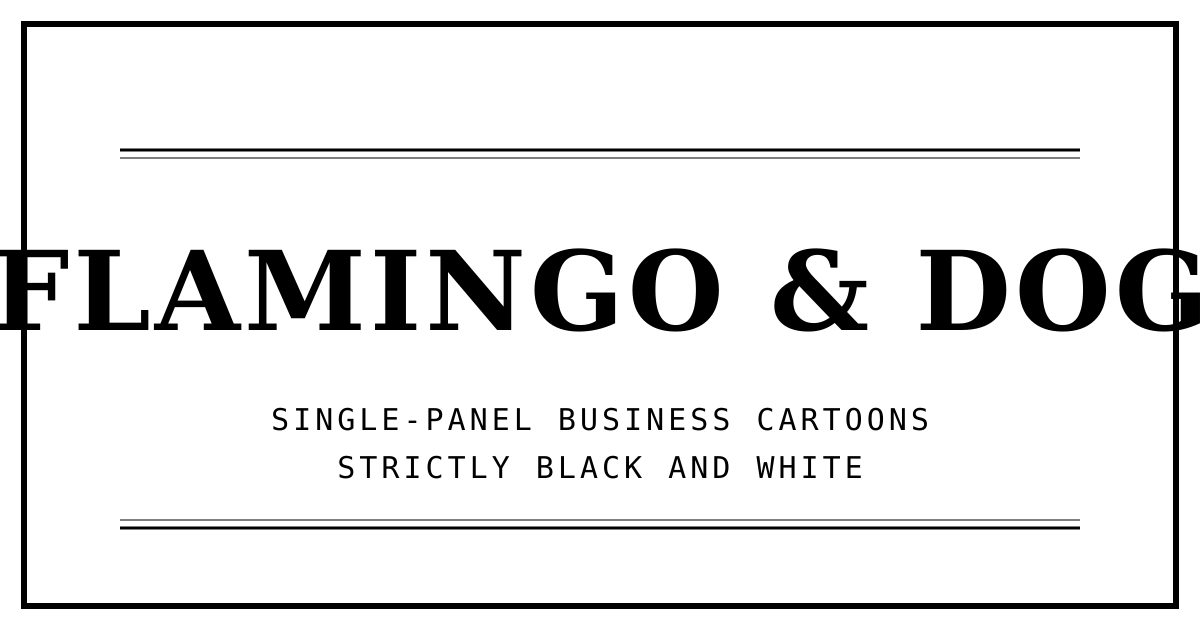
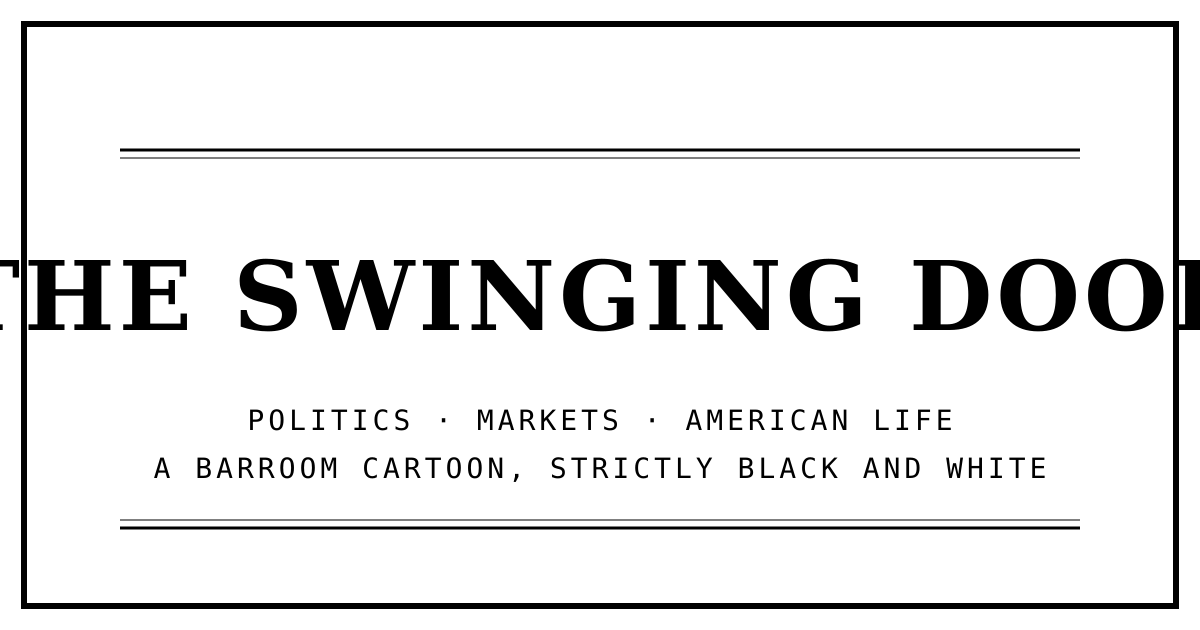
feat: The Swinging Door — site-wide rename + cast integration
Placeholder brand replaced with the founder's series title across all
variants, chooser, permalink, metadata, OG card, and favicon. About
and characters pages rewritten around the bar and the real cast
(Drew, Mango, Abby). All names remain BRAND-marked for future changes.

Claude-Session: https://claude.ai/code/session_01GEydYCHEsDrXfcEi76zStT

diff --git a/site/app/(variants)/a/about/page.tsx b/site/app/(variants)/a/about/page.tsx
@@ -6,7 +6,8 @@ import type { Metadata } from "next";
 
 export const metadata: Metadata = {
   title: "About the Paper",
-  description: "A very small newspaper about money, published daily from the desk of a retired financial advisor.",
+  description:
+    "A very small newspaper reporting from one bar stool: politics, markets, and American life, in black-and-white ink wash.",
 };
 
 export default function AboutPage() {
@@ -20,17 +21,20 @@ export default function AboutPage() {
       <article className="va-about">
         <p className="va-about-body">
           {/* BRAND: replace when final */}
-          Flamingo &amp; Dog is a very small newspaper with a very narrow beat: money, and the things
-          it does to otherwise sensible people. Each edition is one panel, drawn in black and white,
-          concerning markets, meetings, retirement, and clients who would like both perfect safety
-          and forty percent a year. The cast is a flamingo and a dog. One of them is usually right,
-          and it is not always the same one.
+          The Swinging Door is a very small newspaper with one bar on its beat. Each edition is one
+          panel, drawn in black-and-white ink wash, filed from inside the Swinging Door — a classic
+          American bar where the TV runs the news, the chalkboard runs the specials, and the
+          regulars run commentary on politics, markets, and American life. The cast: Drew, a
+          flamingo with a bowtie and a martini; Mango, a golden retriever with a flag on his lapel
+          and a story already underway; and Abby behind the bar, who appears rarely and is right
+          constantly.
         </p>
         <p className="va-about-body">
           The founder spent the better part of four decades as a financial advisor, which is long
-          enough to notice that the funniest thing about money is everything. He has since retired —
-          in the sense that he now draws the meetings instead of billing for them. The paper goes out
-          from his desk, one panel at a time. Corrections are printed rarely, and regretted always.
+          enough to notice that the funniest thing about money is everything, and that most of it
+          is on the news by six. He has since retired — in the sense that he now draws the
+          conversation instead of billing for it. The paper goes out from his desk, one panel at a
+          time. Corrections are printed rarely, and regretted always.
         </p>
         <p className="va-thirty" aria-hidden="true">
           — 30 —

diff --git a/site/app/(variants)/c/about/page.tsx b/site/app/(variants)/c/about/page.tsx
@@ -9,7 +9,7 @@ export const metadata: Metadata = {
   // BRAND: replace when final
   title: "About",
   description:
-    "About Flamingo & Dog — single-panel business cartoons from the desk of a retired financial advisor.",
+    "About The Swinging Door — single-panel barroom cartoons about politics, markets, and American life.",
 };
 
 export default function AboutPage() {
@@ -27,16 +27,17 @@ export default function AboutPage() {
           <span className="vc-tape vc-tape-right" aria-hidden="true" />
           <p className="vc-about-copy">
             {/* BRAND: replace when final */}
-            Flamingo &amp; Dog publishes one cartoon at a time: a single panel, black ink on white
-            paper, about the ordinary comedy of money. Markets, meetings, quarterly forecasts, the
-            client who is certain that this time is different — the same material the financial
-            pages print daily, taken exactly as seriously as it deserves.
+            The Swinging Door runs one strip at a time: a single panel, black ink wash on white
+            paper, from a corner bar where the news plays on a small TV and receives exactly the
+            respect it has earned. Drew the flamingo brings the skepticism, Mango the golden
+            retriever brings the stories, and Abby the bartender brings the last word — sparingly,
+            which is why it works.
           </p>
           <p className="vc-about-copy">
             The founder spent four decades as a financial advisor, which is to say four decades of
             explaining, patiently and for a modest fee, that nobody knows anything for certain. On
-            retiring he concluded that the funniest thing about money is everything, and engaged a
-            flamingo and a dog to put that finding in print. They have yet to disagree with him.
+            retiring he concluded that the funniest thing about money is everything, and opened a
+            bar on paper to prove it. The regulars have yet to disagree with him.
           </p>
           <p className="vc-about-sign">New strips run regularly. Tell a friend who owns bonds.</p>
         </article>

diff --git a/site/app/(variants)/c/characters/page.tsx b/site/app/(variants)/c/characters/page.tsx
@@ -11,16 +11,17 @@ import { getCharacters } from "@/lib/canon";
 export const metadata: Metadata = {
   title: "The Cast",
   description:
-    "The two professionals of the strip — one flamingo, one dog — with model sheets and bios as the canon gets written.",
+    "The regulars of the Swinging Door — Drew, Mango, and Abby — with model sheets and bios as the canon gets written.",
 };
 
-const BILLING = ["Top billing", "Second billing"];
+const BILLING = ["Top billing", "Top billing", "Behind the bar"];
 
 // Placeholder bios in brand voice, used while canon bios are null.
 const PLACEHOLDER_BIOS: Record<string, string> = {
   flamingo:
-    "The tall one. Sees opportunity everywhere, reads the prospectus nowhere, and has never once doubted himself in print. His official biography is still being written with the founder.",
-  dog: "The sensible one. Keeps the books balanced, the receipts filed, and one skeptical eyebrow permanently raised at his partner’s latest sure thing. His official biography is still being written with the founder.",
+    "The tall one. Bowtie, martini, three olives, and a raised eyebrow for every institution on the TV. His official biography is still being written with the founder.",
+  dog: "The earnest one. Flag on the lapel, old fashioned in paw, and a story about his grandfather queued for every occasion. His official biography is still being written with the founder.",
+  abby: "The bartender. Wise, brief, and right. She appears rarely, which is how she likes it. Her official biography is still being written with the founder.",
 };
 
 export default function CharactersPage() {
@@ -32,7 +33,7 @@ export default function CharactersPage() {
         <h1 className="vc-sechead">
           <span>The Cast</span>
         </h1>
-        <p className="vc-page-intro">Two professionals. One of them is a flamingo.</p>
+        <p className="vc-page-intro">The regulars. Two on stools, one behind the bar.</p>
       </header>
 
       <ul className="vc-cast-row">

diff --git a/site/app/(variants)/b/characters/page.tsx b/site/app/(variants)/b/characters/page.tsx
@@ -7,7 +7,7 @@ import { getCharacters } from "@/lib/canon";
 
 export const metadata: Metadata = {
   title: "Dramatis Personae",
-  description: "The cast of the panel — a flamingo and a dog — in order of billing.",
+  description: "The cast of the panel — Drew, Mango, and Abby — in order of billing.",
 };
 
 const ORDINALS = ["First", "Second", "Third", "Fourth", "Fifth"];
@@ -17,8 +17,9 @@ const ORDINALS = ["First", "Second", "Third", "Fourth", "Fifth"];
 // members get a tailored line; anyone added later gets the general notice.
 const PLACEHOLDER_BIOS: Record<string, string> = {
   flamingo:
-    "The flamingo's formal biography is still being taken down at the founder's desk, where it is reportedly running long. Until the wording is settled, the record shows one flamingo, strictly black and white, with a standing interest in other people's money.",
-  dog: "The dog's formal biography awaits the founder's sign-off, and the dog is in no hurry. For now the file holds a single note: good with clients, better at lunch.",
+    "Drew's formal biography is still being taken down at the founder's desk, where it is reportedly running long. Until the wording is settled, the record shows one flamingo, one bowtie, one martini with three olives, and a standing interest in the absurdity of institutions.",
+  dog: "Mango's formal biography awaits the founder's sign-off, and Mango is in no hurry — he is mid-story. For now the file holds a single note: golden retriever, flag on the lapel, old fashioned in hand, believes in the country and reads the fine print anyway.",
+  abby: "Abby's formal biography is short by design: westie, bartender, wise. She appears rarely, pours precisely, and has already heard the end of whatever argument is currently underway.",
 };
 
 function placeholderBio(id: string): string {

diff --git a/site/app/(variants)/b/about/page.tsx b/site/app/(variants)/b/about/page.tsx
@@ -20,16 +20,17 @@ export default function AboutPage() {
       <div className="vb-prose">
         <p>
           {/* BRAND: replace when final */}
-          Flamingo &amp; Dog publishes single-panel cartoons about the business of money —
-          markets, meetings, fees, and the long unhurried comedy of retirement planning. Every
-          panel is drawn in black and white, which is how the truth about money generally
-          arrives. One flamingo, one dog, no color, no exceptions.
+          The Swinging Door publishes single-panel cartoons from inside a bar of the same name —
+          politics, markets, media, and American life, discussed over drinks by Drew, a flamingo
+          of elegant skepticism, and Mango, a golden retriever of durable belief, with occasional
+          rulings from Abby behind the bar. Every panel is drawn in black-and-white ink wash,
+          which is how the truth generally arrives. No color, no exceptions.
         </p>
         <p>
           The founder spent the better part of four decades as a financial advisor, explaining
           compound interest to people who wanted to talk about their brother-in-law&rsquo;s stock
-          tip. Somewhere around the thousandth client meeting he concluded that the funniest
-          thing about money is everything, and retired to write it down. The panel is the
+          tip. Somewhere around the thousandth meeting he concluded that the funniest thing about
+          money is everything, and retired to a bar stool to write it down. The panel is the
           result. He remains, for the record, fully diversified.
         </p>
       </div>

diff --git a/site/app/page.tsx b/site/app/page.tsx
@@ -27,7 +27,7 @@ export default function VariantChooser() {
       <main id="content" className="chooser-main">
         <header className="chooser-header">
           {/* BRAND: replace when final */}
-          <h1 className="chooser-brand">Flamingo &amp; Dog</h1>
+          <h1 className="chooser-brand">The Swinging Door</h1>
           <p className="chooser-line">Choose your edition.</p>
         </header>
 
@@ -36,7 +36,7 @@ export default function VariantChooser() {
             <Link href="/a" className="chooser-card">
               <span className="specimen specimen-a" aria-hidden="true">
                 {/* BRAND: replace when final */}
-                <span className="spec-a-masthead">Flamingo &amp; Dog</span>
+                <span className="spec-a-masthead">The Swinging Door</span>
                 <span className="spec-a-rules"></span>
                 <span className="spec-a-dateline">Vol. 1 · Every morning · Price: one good laugh</span>
                 <span className="spec-a-body">
@@ -100,7 +100,7 @@ export default function VariantChooser() {
 
       <footer className="chooser-footer">
         {/* BRAND: replace when final */}
-        <p>© {new Date().getFullYear()} Flamingo &amp; Dog · All characters and cartoons are property of the company.</p>
+        <p>© {new Date().getFullYear()} The Swinging Door · All characters and cartoons are property of the company.</p>
         <p className="chooser-desk">Published from the desk of the founder</p>
       </footer>
     </div>

diff --git a/site/app/(variants)/a/layout.tsx b/site/app/(variants)/a/layout.tsx
@@ -16,7 +16,7 @@ export default function VariantALayout({ children }: { children: ReactNode }) {
         <nav className="va-strip" aria-label="Sections">
           <Link href="/a" className="va-strip-mark" aria-label="Front page">
             {/* BRAND: replace when final */}
-            F&amp;D
+            SD
           </Link>
           <ul className="va-strip-list">
             <li>
@@ -42,10 +42,10 @@ export default function VariantALayout({ children }: { children: ReactNode }) {
         <footer className="va-footer">
           <p className="va-folio">
             {/* BRAND: replace when final */}
-            Flamingo &amp; Dog Publishing Co. — All Rights Reserved
+            The Swinging Door Publishing Co. — All Rights Reserved
           </p>
           <p className="va-legal va-onum">
-            {/* BRAND: replace when final */}© {new Date().getFullYear()} Flamingo &amp; Dog · All characters
+            {/* BRAND: replace when final */}© {new Date().getFullYear()} The Swinging Door · All characters
             and cartoons are property of the company.
           </p>
           <p className="va-desk">Published from the desk of the founder</p>

diff --git a/site/app/cartoon/[slug]/page.tsx b/site/app/cartoon/[slug]/page.tsx
@@ -42,8 +42,8 @@ export default async function CartoonPermalink({ params }: { params: Promise<{ s
     <div className={`permalink ${newsSerif.variable}`}>
       <header className="permalink-masthead">
         {/* BRAND: replace when final */}
-        <p className="permalink-brand">Flamingo &amp; Dog</p>
-        <p className="permalink-tagline">Single-panel business cartoons, strictly black and white</p>
+        <p className="permalink-brand">The Swinging Door</p>
+        <p className="permalink-tagline">A single-panel barroom cartoon — politics, markets, and American life</p>
       </header>
 
       <main id="content">
@@ -82,7 +82,7 @@ export default async function CartoonPermalink({ params }: { params: Promise<{ s
 
       <footer className="permalink-footer">
         {/* BRAND: replace when final */}
-        <p>© {new Date().getFullYear()} Flamingo &amp; Dog · All characters and cartoons are property of the company.</p>
+        <p>© {new Date().getFullYear()} The Swinging Door · All characters and cartoons are property of the company.</p>
         <p className="permalink-desk">Published from the desk of the founder</p>
       </footer>
     </div>

diff --git a/site/app/(variants)/c/layout.tsx b/site/app/(variants)/c/layout.tsx
@@ -16,9 +16,9 @@ export default function VariantCLayout({ children }: { children: ReactNode }) {
         <div className="vc-mast-row">
           <p className="vc-brand">
             {/* BRAND: replace when final */}
-            <Link href="/c">Flamingo &amp; Dog</Link>
+            <Link href="/c">The Swinging Door</Link>
           </p>
-          <p className="vc-tagline vc-underline">The business funny pages, strictly black &amp; white</p>
+          <p className="vc-tagline vc-underline">The barroom funny pages, strictly black &amp; white</p>
         </div>
         <BoardTabs />
       </header>
@@ -27,7 +27,7 @@ export default function VariantCLayout({ children }: { children: ReactNode }) {
 
       <footer className="vc-footer">
         <p>
-          {/* BRAND: replace when final */}© {new Date().getFullYear()} Flamingo &amp; Dog · All
+          {/* BRAND: replace when final */}© {new Date().getFullYear()} The Swinging Door · All
           characters and cartoons are property of the company.
         </p>
         <p className="vc-footer-desk">Published from the desk of the founder</p>

diff --git a/site/app/(variants)/b/layout.tsx b/site/app/(variants)/b/layout.tsx
@@ -13,7 +13,7 @@ export default function VariantBLayout({ children }: { children: React.ReactNode
       <header className="vb-masthead">
         <p className="vb-brand">
           {/* BRAND: replace when final */}
-          <Link href="/b">Flamingo &amp; Dog</Link>
+          <Link href="/b">The Swinging Door</Link>
         </p>
         <nav className="vb-nav" aria-label="Site sections">
           <Link href="/b">The Panel</Link>
@@ -28,7 +28,7 @@ export default function VariantBLayout({ children }: { children: React.ReactNode
       <footer className="vb-footer">
         <Fleuron />
         <p className="vb-footer-line">
-          {/* BRAND: replace when final */}© {new Date().getFullYear()} Flamingo &amp; Dog
+          {/* BRAND: replace when final */}© {new Date().getFullYear()} The Swinging Door
         </p>
         <p className="vb-footer-line">All characters and cartoons are property of the company.</p>
         <p className="vb-footer-desk vb-caps-tiny">Published from the desk of the founder</p>

diff --git a/site/app/(variants)/a/characters/page.tsx b/site/app/(variants)/a/characters/page.tsx
@@ -10,14 +10,15 @@ import { getCharacters } from "@/lib/canon";
 
 export const metadata: Metadata = {
   title: "Meet the Cast",
-  description: "The paper's two staff characters: a flamingo, a dog, and their positions on everything.",
+  description: "The regulars of the Swinging Door: Drew, Mango, and Abby behind the bar.",
 };
 
-// Masthead titles for the feature spread. Anyone the canon adds later
-// gets the general-assignment line.
+// Masthead titles for the feature spread, drawn from the series bible.
+// Anyone the canon adds later gets the general-assignment line.
 const POSITIONS: Record<string, string> = {
-  flamingo: "Senior Partner — Markets & Opinions",
-  dog: "Partner — Clients & Loyalty",
+  flamingo: "First Billing — Markets & Opinions",
+  dog: "First Billing — Stories & Loyalty",
+  abby: "Behind the Bar — Appears Sparingly",
 };
 
 export default function CharactersPage() {

diff --git a/site/app/(variants)/a/page.tsx b/site/app/(variants)/a/page.tsx
@@ -13,7 +13,7 @@ import { dayOfYear, formatDateAP, formatDateline } from "@/lib/format";
 export const metadata: Metadata = {
   title: "Front Page",
   description:
-    "Today's single-panel business cartoon, printed in black and white, plus the forecast and the classified archive.",
+    "Today's single-panel barroom cartoon, printed in black and white, plus the forecast and the classified archive.",
 };
 
 // Five market outlooks in house voice. Rotation is dayOfYear % 5.
@@ -38,7 +38,7 @@ export default function FrontPage() {
       <header className="va-masthead">
         <h1 className="va-masthead-title va-ink-spread">
           {/* BRAND: replace when final */}
-          Flamingo &amp; Dog
+          The Swinging Door
         </h1>
         <p className="va-masthead-motto">All the gags that are fit to print.</p>
         <p className="va-dateline va-onum">
